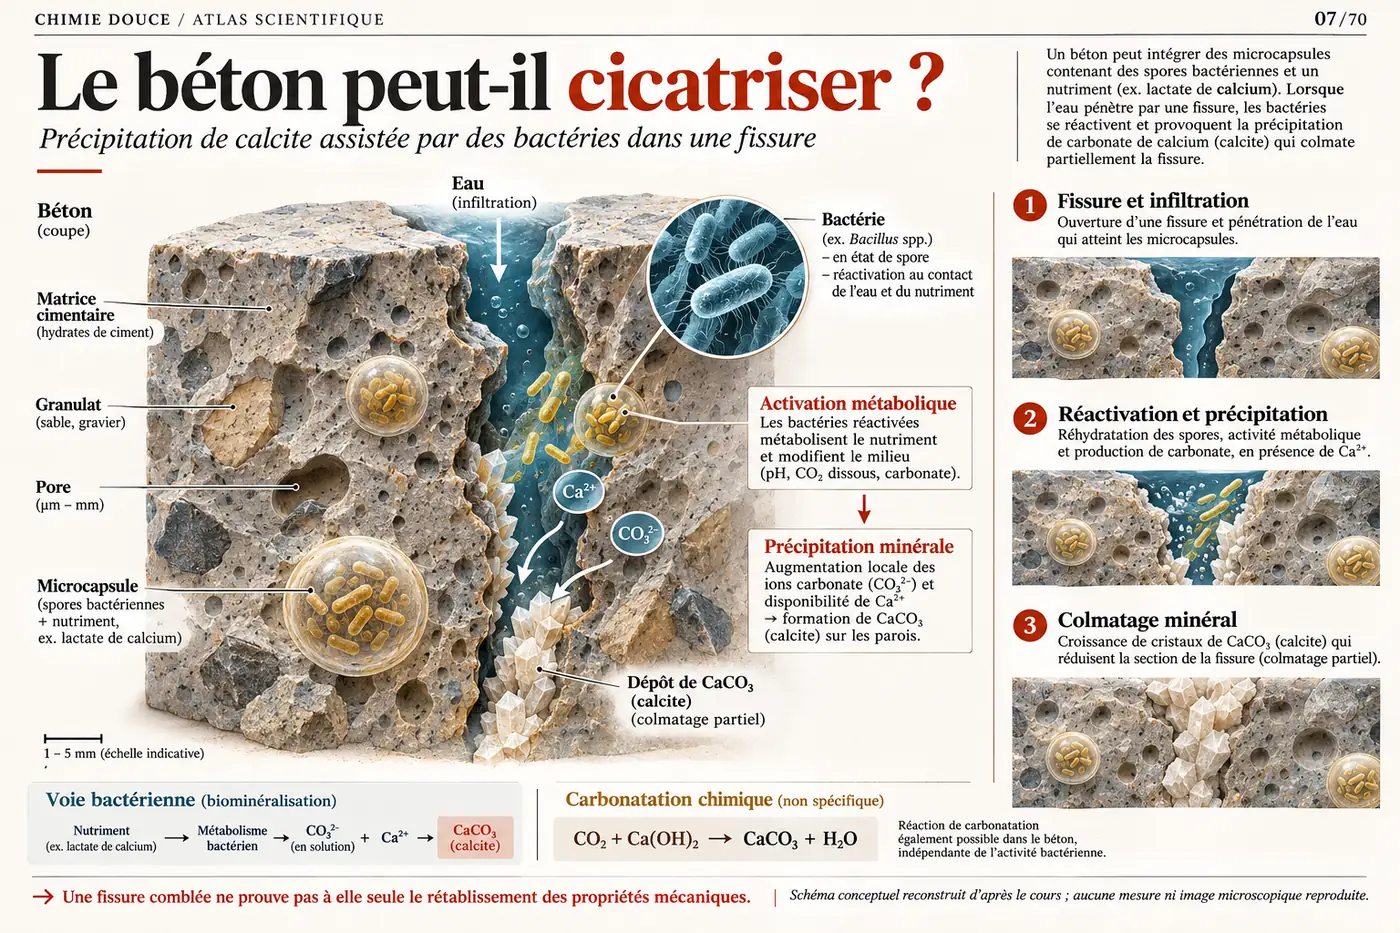
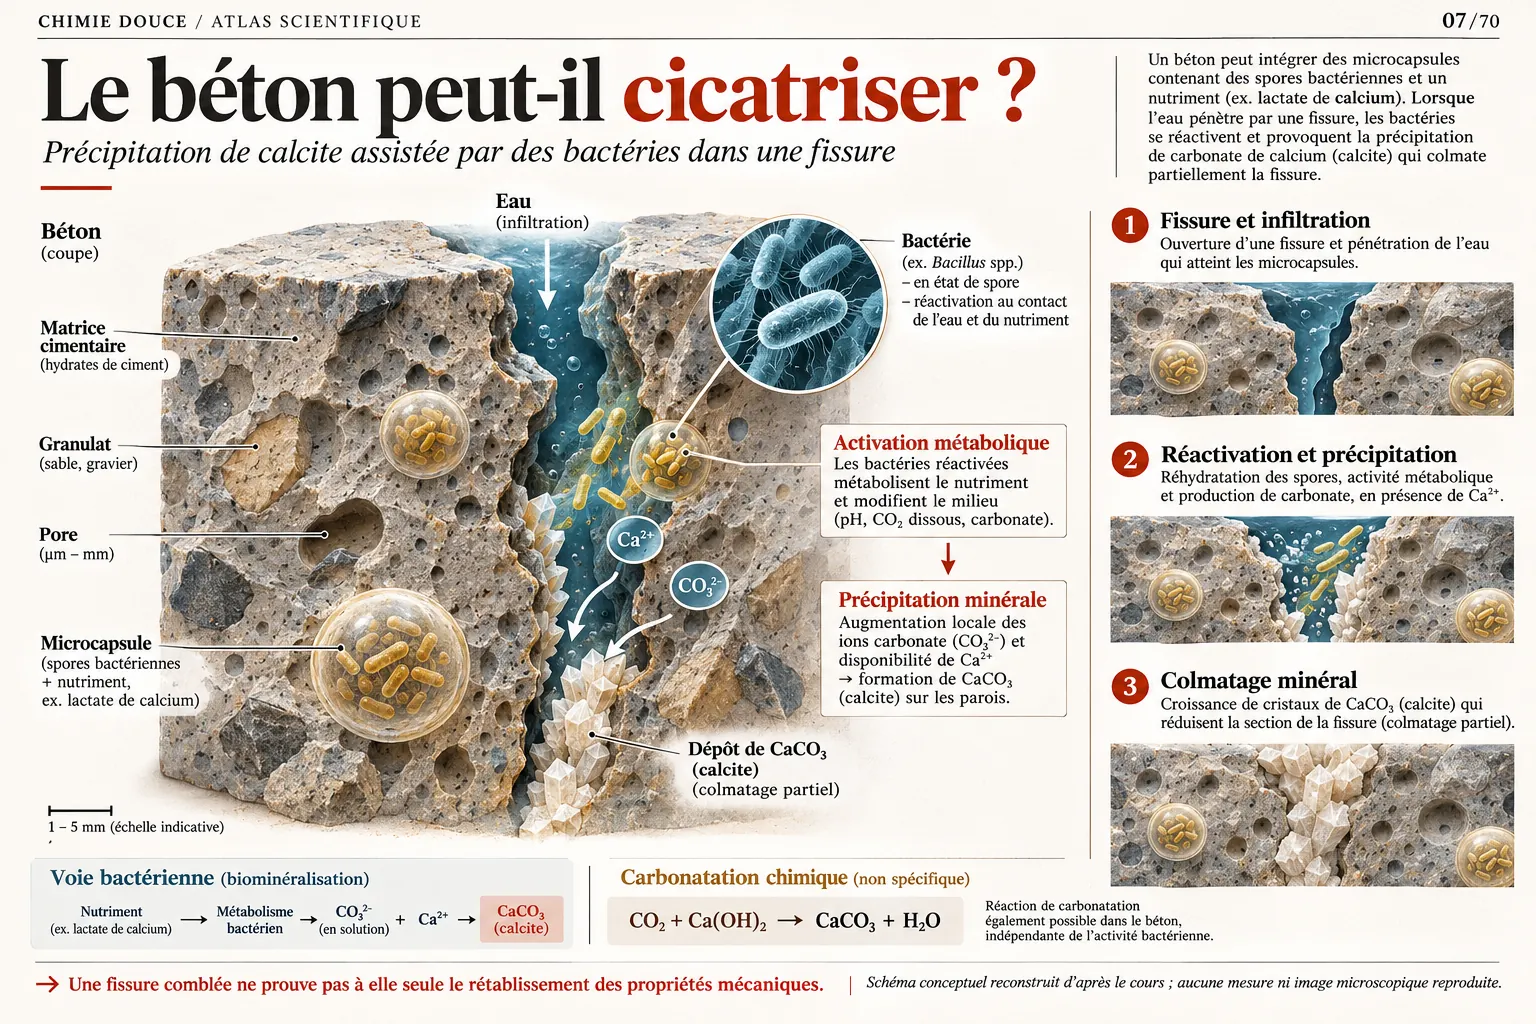
publish(chimie): corrected premium cream editorial plates 01 and 07 with original sources retained

diff --git a/docs/chimie-douce/planches/planches.js b/docs/chimie-douce/planches/planches.js
@@ -19,7 +19,17 @@ const scientificReview=Object.freeze({
  43:'Les courbes de cette illustration sont inventées et ne doivent servir ni à quantifier la production d’acétate ni à comparer les groupes. La diapositive scientifique originale est affichée par défaut.',
  44:'La couverture nanométrique dessinée et les épaisseurs indiquées sont conceptuelles ; l’attribution structurale et les performances réelles nécessitent les données de l’article source.',
  45:'La représentation d’une coque limitant le passage de l’oxygène est une hypothèse explicative : ne pas l’assimiler à une imperméabilité de principe. Vérifier les contrôles de survie et d’activité.',
- 46:'Les graphiques figurant dans la reconstruction sont fictifs et non quantitatifs. La diapositive originale est affichée par défaut, car elle seule permet de vérifier les conditions et les mesures rapportées.'
+ 46:'Les graphiques figurant dans la reconstruction sont fictifs et non quantitatifs. La diapositive originale est affichée par défaut, car elle seule permet de vérifier les conditions et les mesures rapportées.',
+ 47:'Une cellule HeLa est eucaryote : distinguer la membrane plasmique, les ligands d’ancrage et la distribution des nanoparticules. La densité du revêtement, sa continuité et la survie cellulaire ne sont pas établies par une coupe schématique.',
+ 48:'La présence d’une sonde sur la coque et l’amplitude d’un signal ne prouvent ni la sélectivité du récepteur ni l’absence de bruit de fond. Évaluer contrôle négatif, réversibilité, réponse dose–signal et compatibilité cellulaire.',
+ 49:'Coordination, adsorption électrostatique et couplage covalent sont des processus chimiquement distincts. Leur compatibilité avec une membrane vivante et leur rendement de greffage doivent être démontrés ; ne pas présumer une interface étanche.',
+ 50:'Les diagrammes de stabilité sont conceptuels. Survie, intégrité membranaire, persistance métabolique et résistance mécanique doivent être mesurées séparément, avec témoins et échelles temporelles rapportées.',
+ 51:'Une mesure de nanoindentation dépend de la vitesse de chargement, de la géométrie et du modèle d’analyse. La rigidification apparente d’une supracellule ne démontre pas à elle seule sa viabilité.',
+ 52:'Des particules portant plusieurs fonctionnalités ne prouvent ni leur fonctionnement simultané ni leur biocompatibilité. Vérifier les fonctions séparément, puis dans le matériau assemblé.',
+ 53:'La cryoprotection doit être évaluée sur plusieurs cycles ou conditions : congélation, décongélation, récupération, viabilité et fonctions ultérieures ne sont pas interchangeables.',
+ 54:'L’hémolyse et la récupération après décongélation nécessitent des contrôles quantitatifs et l’évaluation de particules MOF résiduelles ; aucun taux ne doit être inféré du schéma reconstruit.',
+ 55:'La localisation intracellulaire ou extracellulaire de MOFs dépend du transport des précurseurs, de leur diffusion et des sites de nucléation ; un schéma ne démontre pas le mécanisme de croissance in vivo.',
+ 56:'La mise en évidence de phases MOF dans les tissus végétaux doit croiser imagerie, cartographie élémentaire et contrôles de préparation ; un signal ne prouve pas une distribution homogène.'
 });
 const chapterNames=[...new Set(FIGURES.map(f=>f.chapter))];
 chapterNames.forEach((n,i)=>$('chapter').add(new Option(String(i+1).padStart(2,'0')+' · '+n,n)));
@@ -57,15 +67,21 @@ function time(t){const s=Math.round(t);return String(Math.floor(s/3600)).padStar
 function displayFigureArt(){
  const f=FIGURES.find(x=>x.id===state.id);if(!f)return;
  const enhanced=redesignedPlate(f.id);
+ const comparing=Boolean(enhanced&&state.view==='comparison');
  const newView=Boolean(enhanced&&state.view==='illustration');
  const src=newView?enhanced.src:plateAsset(f.id);
- const description=newView?enhanced.caution:'Diapositive originale du cours de Clément Sanchez (2020), conservée comme document source.';
- $('bigArt').innerHTML='<img src="'+esc(src)+'" alt="'+esc(description)+' Planche '+f.id+' — '+esc(f.title)+'">';
+ const description=(newView||comparing)?enhanced.caution:'Diapositive originale du cours de Clément Sanchez (2020), conservée comme document source.';
+ const originalImage='<img src="'+esc(plateAsset(f.id))+'" alt="Diapositive originale 2020 : '+esc(f.title)+'">';
+ const redrawImage=enhanced?'<img src="'+esc(enhanced.src)+'" alt="Reconstruction pédagogique distincte de la planche '+f.id+' : '+esc(f.title)+'">':'';
+ $('bigArt').classList.toggle('comparison-view',comparing);
+ $('bigArt').innerHTML=comparing?'<div class="comparison-panel"><strong>SOURCE ORIGINALE 2020</strong>'+originalImage+'</div><div class="comparison-panel"><strong>RECONSTRUCTION PÉDAGOGIQUE</strong>'+redrawImage+'</div>':'<img src="'+esc(src)+'" alt="'+esc(description)+' Planche '+f.id+' — '+esc(f.title)+'">';
  const versions=$('figureVersions');
  versions.hidden=!enhanced;
- versions.innerHTML=enhanced?'<button type="button" data-view="illustration" aria-pressed="'+newView+'">ILLUSTRATION REDESSINÉE</button><button type="button" data-view="original" aria-pressed="'+(!newView)+'">SOURCE ORIGINALE 2020</button>':'';
+ versions.innerHTML=enhanced?'<button type="button" data-view="illustration" aria-pressed="'+newView+'">ILLUSTRATION REDESSINÉE</button><button type="button" data-view="original" aria-pressed="'+(!newView&&!comparing)+'">SOURCE ORIGINALE 2020</button><button type="button" data-view="comparison" aria-pressed="'+comparing+'">COMPARER LES DEUX</button>':'';
  versions.querySelectorAll('button[data-view]').forEach(button=>button.onclick=()=>{
   state.view=button.dataset.view;displayFigureArt();
+  const route=new URL(location.href);route.searchParams.set('view',state.view);
+  history.replaceState(history.state,'',route);
  });
  const note=$('artStatus');
  note.textContent=description;
@@ -75,7 +91,7 @@ function openFigure(id){
  const f=FIGURES.find(f=>f.id===id);if(!f)return;
  state.id=f.id;
  const requestedView=new URLSearchParams(location.search).get('view');const edition=redesignedPlate(f.id);
- state.view=requestedView==='original'?'original':requestedView==='illustration'&&edition?'illustration':(edition&&!edition.defaultOriginal?'illustration':'original');
+ state.view=requestedView==='original'?'original':requestedView==='comparison'&&edition?'comparison':requestedView==='illustration'&&edition?'illustration':(edition&&!edition.defaultOriginal?'illustration':'original');
  $('dialogMeta').textContent='CLÉMENT SANCHEZ · COLLÈGE DE FRANCE / FIGURE '+String(f.id).padStart(2,'0')+' / '+time(f.time);
  $('dialogChapter').textContent='CHAPITRE '+String(chapterNames.indexOf(f.chapter)+1).padStart(2,'0')+' · '+f.chapter;
  $('dialogTitle').textContent=f.title;
@@ -90,7 +106,7 @@ function openFigure(id){
  if(scenes.length)ln+=scenes.slice(0,2).map(s=>'<a href="../#'+esc(s.id)+'">EXPLORER EN 3D : '+esc(s.title)+' ↗</a>').join('');
  $('dialogLinks').innerHTML=ln;
  const d=$('details');if(!d.open)d.showModal();
- const url=new URL(location.href);url.searchParams.set('figure',id);history.replaceState({},'',url);
+ const url=new URL(location.href);url.searchParams.set('figure',id);history.replaceState(history.state,'',url);
  document.title='Figure '+String(f.id).padStart(2,'0')+' — '+f.title+' · Clément Sanchez · Collège de France';
  document.querySelectorAll('.plate-index-item').forEach(el=>el.setAttribute('aria-current',String(Number(el.dataset.figureJump)===f.id)));
 
@@ -100,6 +116,6 @@ $('chapter').onchange=e=>{state.chapter=e.target.value;render()};
 $('prevFigure').onclick=()=>openFigure(state.id===1?70:state.id-1);
 $('nextFigure').onclick=()=>openFigure(state.id===70?1:state.id+1);
 $('close').onclick=()=>{$('details').close()};
-$('details').addEventListener('close',()=>{const u=new URL(location.href);u.searchParams.delete('figure');history.replaceState({},'',u);document.title='Les 70 planches — Chimie douce'});
+$('details').addEventListener('close',()=>{const u=new URL(location.href);u.searchParams.delete('figure');u.searchParams.delete('view');history.replaceState(history.state,'',u);document.title='Les 70 planches — Chimie douce'});
 window.addEventListener('keydown',e=>{if(e.key==='Escape'&&$('details').open)$('details').close();if($('details').open&&e.key==='ArrowRight')openFigure(state.id===70?1:state.id+1);if($('details').open&&e.key==='ArrowLeft')openFigure(state.id===1?70:state.id-1)});
 renderNavigator();render();if(state.chapter)$('chapter').value=state.chapter;if(state.id)openFigure(state.id);

diff --git a/docs/chimie-douce/planches/redesigned.css b/docs/chimie-douce/planches/redesigned.css
@@ -69,3 +69,33 @@ border-left:3px solid #c08b47;padding:10px 12px;background:#e6ddc9;color:#263b2e
  .fig-dialog .plate-nav-actions button{font-size:13px!important;padding:8px!important}
  .fig-dialog .plate-nav-actions span{display:none}
 }
+
+/* Editorial scientific source comparison — cream paper, neutral hierarchy. */
+.fig-dialog .big-art.comparison-view{
+ display:grid!important;grid-template-columns:repeat(2,minmax(0,1fr))!important;
+ align-items:start!important;gap:2px!important;
+ padding:10px!important;background:#d7d1c2!important
+}
+.fig-dialog .comparison-panel{
+ display:flex;flex-direction:column;align-items:stretch;gap:8px;
+ background:#f7f1e6;padding:11px;min-width:0
+}
+.fig-dialog .comparison-panel strong{
+ display:block;font:700 11px/1.5 'Space Grotesk',Arial,sans-serif;
+ letter-spacing:.05em;color:#263f30
+}
+.fig-dialog .comparison-panel img{
+ display:block;width:100%;height:auto;max-height:72vh;object-fit:contain;
+ background:#f7f1e6
+}
+.fig-dialog .figure-versions button[data-view="comparison"]{
+ border-color:#d0b483;background:#244632;color:#f8eddb
+}
+.fig-dialog .figure-versions button[data-view="comparison"][aria-pressed="true"]{
+ background:#e2bd7c;color:#192e23
+}
+@media(max-width:720px){
+ .fig-dialog .big-art.comparison-view{grid-template-columns:minmax(0,1fr)!important}
+ .fig-dialog .comparison-panel img{max-height:none}
+ .fig-dialog .comparison-panel{padding:9px}
+}

diff --git a/docs/chimie-douce/src/redesigned-plates.js b/docs/chimie-douce/src/redesigned-plates.js
@@ -48,7 +48,7 @@ const VECTOR_NOTES=Object.freeze({
  70:'Perspectives conceptuelles : sécurité, impact et industrialisation requièrent vérification.'
 });
 const VECTOR=Object.fromEntries(VECTOR_IDS.map(id=>[id,Object.freeze({
- src:new URL('../assets/atlas-redessine/planche-'+String(id).padStart(2,'0')+'.svg',import.meta.url).href,
+ src:new URL('../assets/atlas-redessine/planche-'+String(id).padStart(2,'0')+(id===1?'.webp':'.svg'),import.meta.url).href,
  kind:'reconstruction',
  source:SOURCE,
  caution:VECTOR_NOTES[id],

diff --git a/docs/chimie-douce/plate-ui-locales.js b/docs/chimie-douce/plate-ui-locales.js
@@ -149,5 +149,6 @@ export const PLATE_UI_TERMS={
     "es": "RECONSTRUCCIÓN EDUCATIVA",
     "it": "RICOSTRUZIONE DIDATTICA",
     "zh": "教学重构图"
-  }
+  },
+  "COMPARER LES DEUX": {"en":"COMPARE BOTH","es":"COMPARAR AMBAS","it":"CONFRONTA LE DUE VERSIONI","zh":"对比两种版本"}
 };
